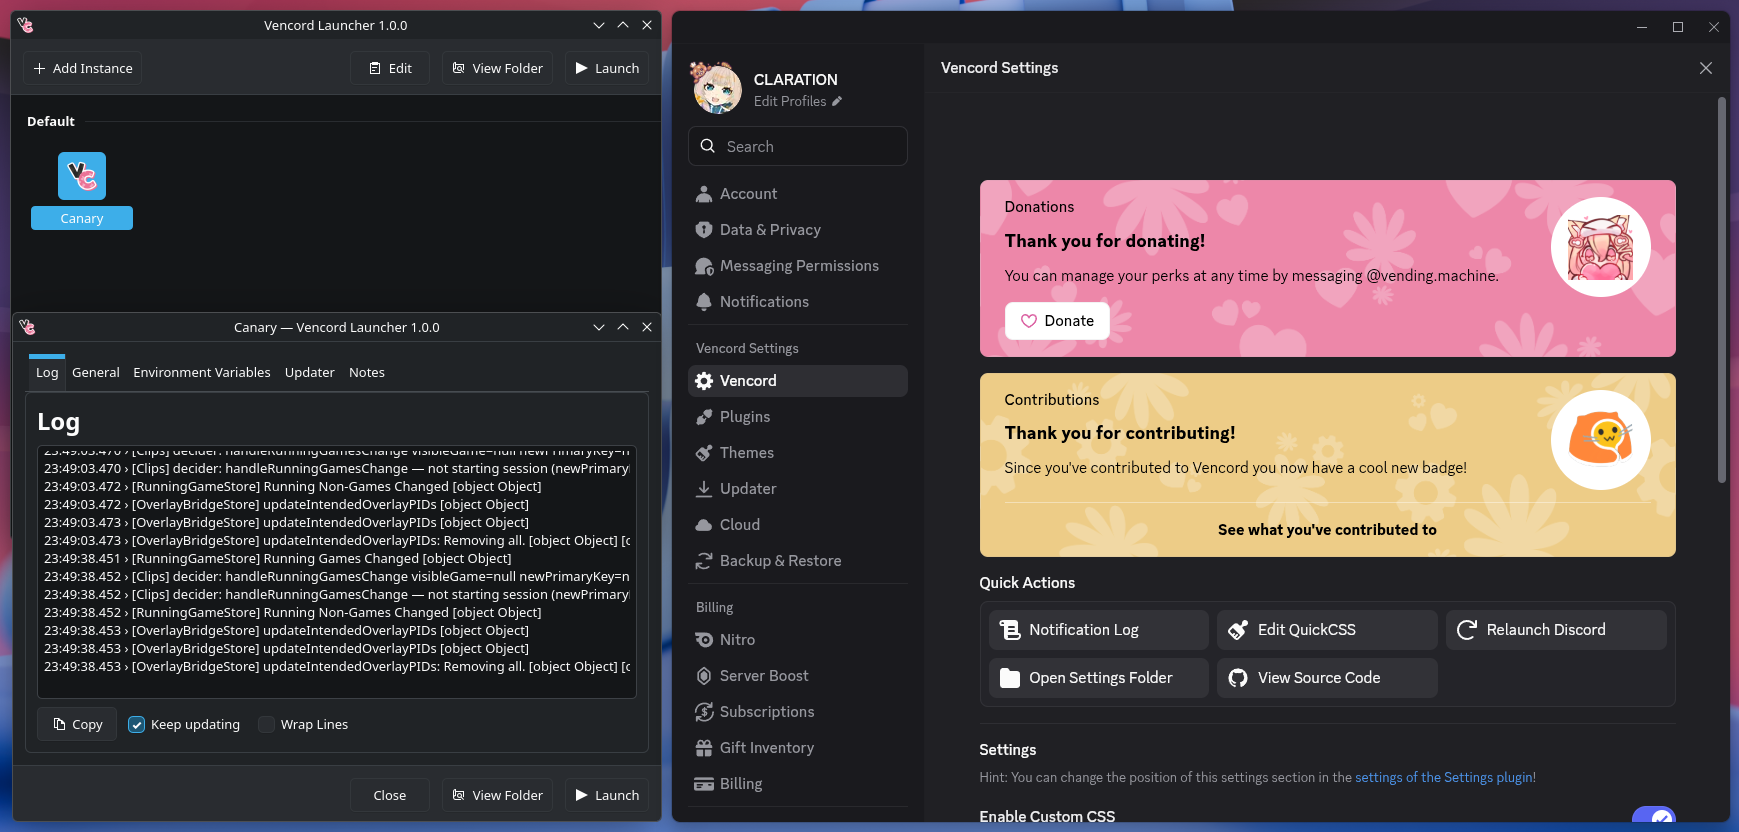
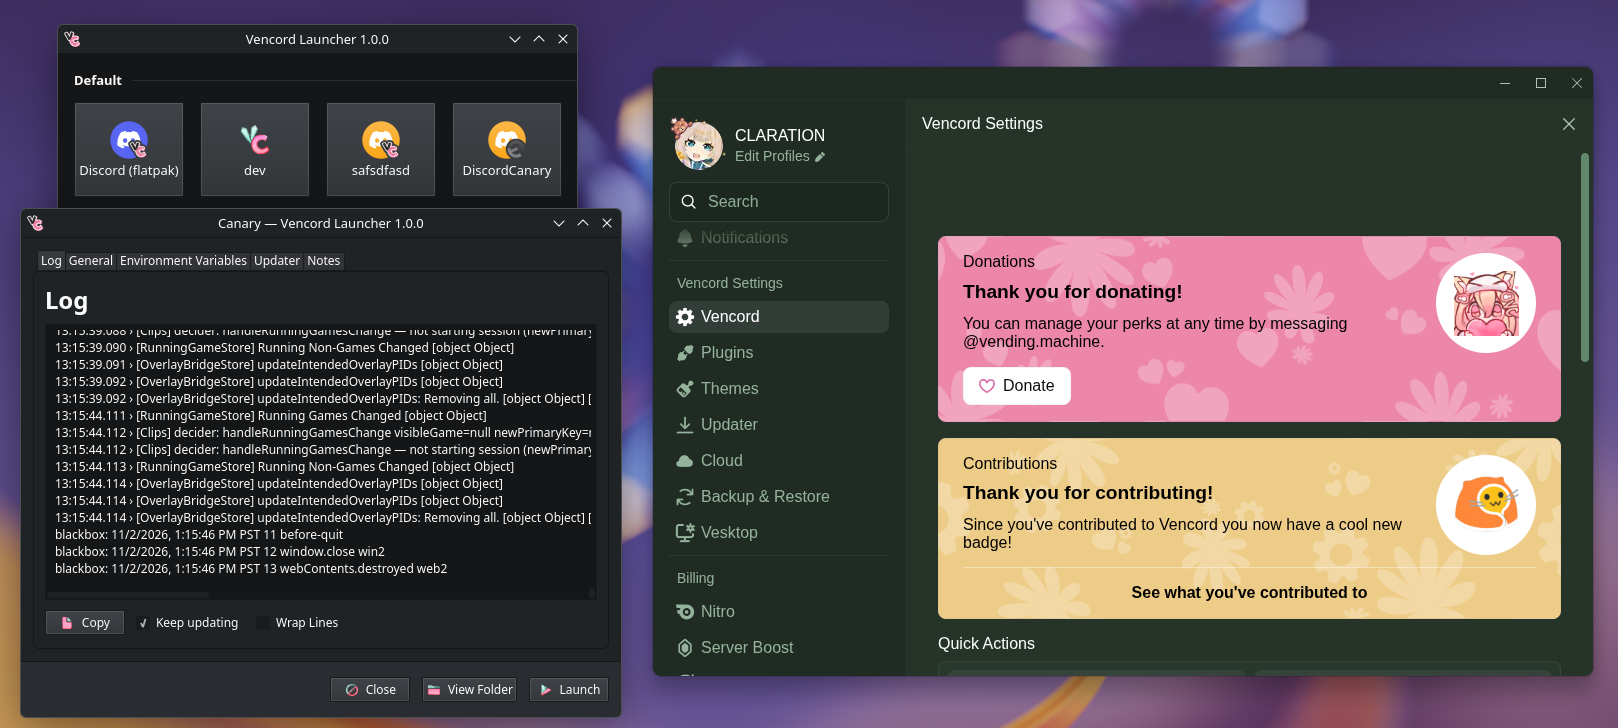
chore: update readme with new info

diff --git a/.github/README.md b/.github/README.md
@@ -1,11 +1,9 @@
-# Venject
+# Vencord Launcher
 
 [![GitHub Release](https://img.shields.io/github/v/release/claration/venject?include_prereleases)](https://github.com/claration/venject/releases)
 [![GitHub Downloads (all assets, all releases)](https://img.shields.io/github/downloads/claration/venject/total)](https://github.com/claration/venject/releases)
-[![GitHub License](https://img.shields.io/github/license/claration/venject?color=%23C96FAD)](https://github.com/claration/venject/blob/main/LICENSE)
-[![Sponsor Me](https://img.shields.io/static/v1?label=Sponsor&message=%E2%9D%A4&logo=GitHub&color=%23fe8e86)](https://github.com/sponsors/claration)
 
-Venject is a mod launcher for Discord, primarily used for with [Vencord](https://github.com/Vendicated/Vencord) automatically installed!
+Custom launcher for Discord which loads [Vencord](https://github.com/Vendicated/Vencord)
 
 ![Demo of app](demo.png)
 
@@ -85,9 +83,8 @@ Venject has translation support (pretend I eplain how you can translate.)
 - [Paige](https://github.com/ssalggnikool) – Fixes & QT stylistic choices.
 - [Megumin](https://github.com/MeguminSama/Electron-Hook) – Injection references.
 
-
 ## License
 
-This project is licensed under the GPL-3.0 license. You can see the full details of the license [here](https://github.com/claration/venject/blob/main/LICENSE). 
+This project is licensed under the GPL-3.0 license. You can see the full details of the license [here](https://github.com/claration/venject/blob/main/LICENSE).
 
 By contributing to this project, you agree to license your code under the GPL-3.0 license as well (including agreeing to license exceptions), ensuring that your work, like all other contributions, remains freely accessible and open.
